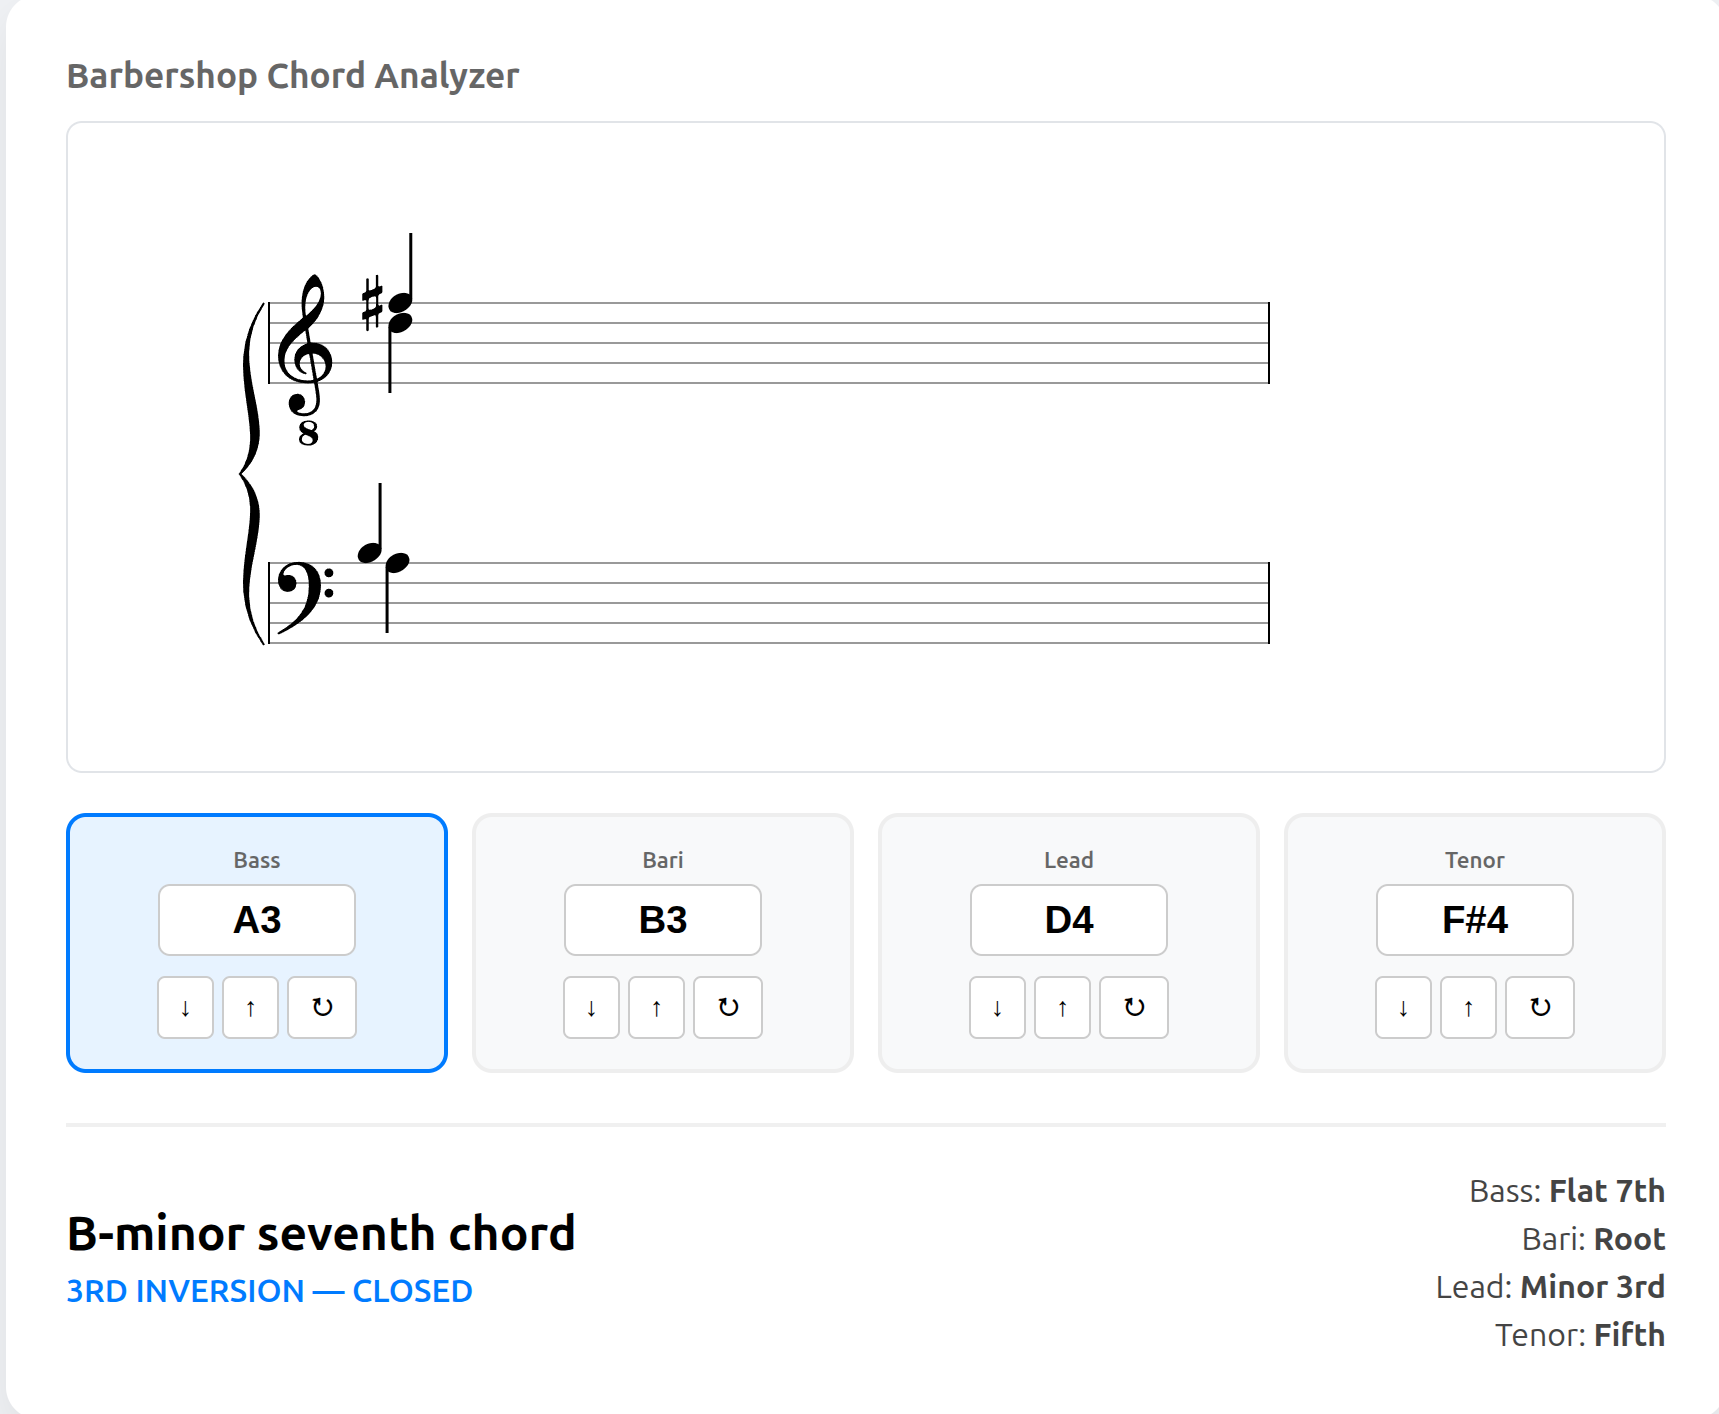
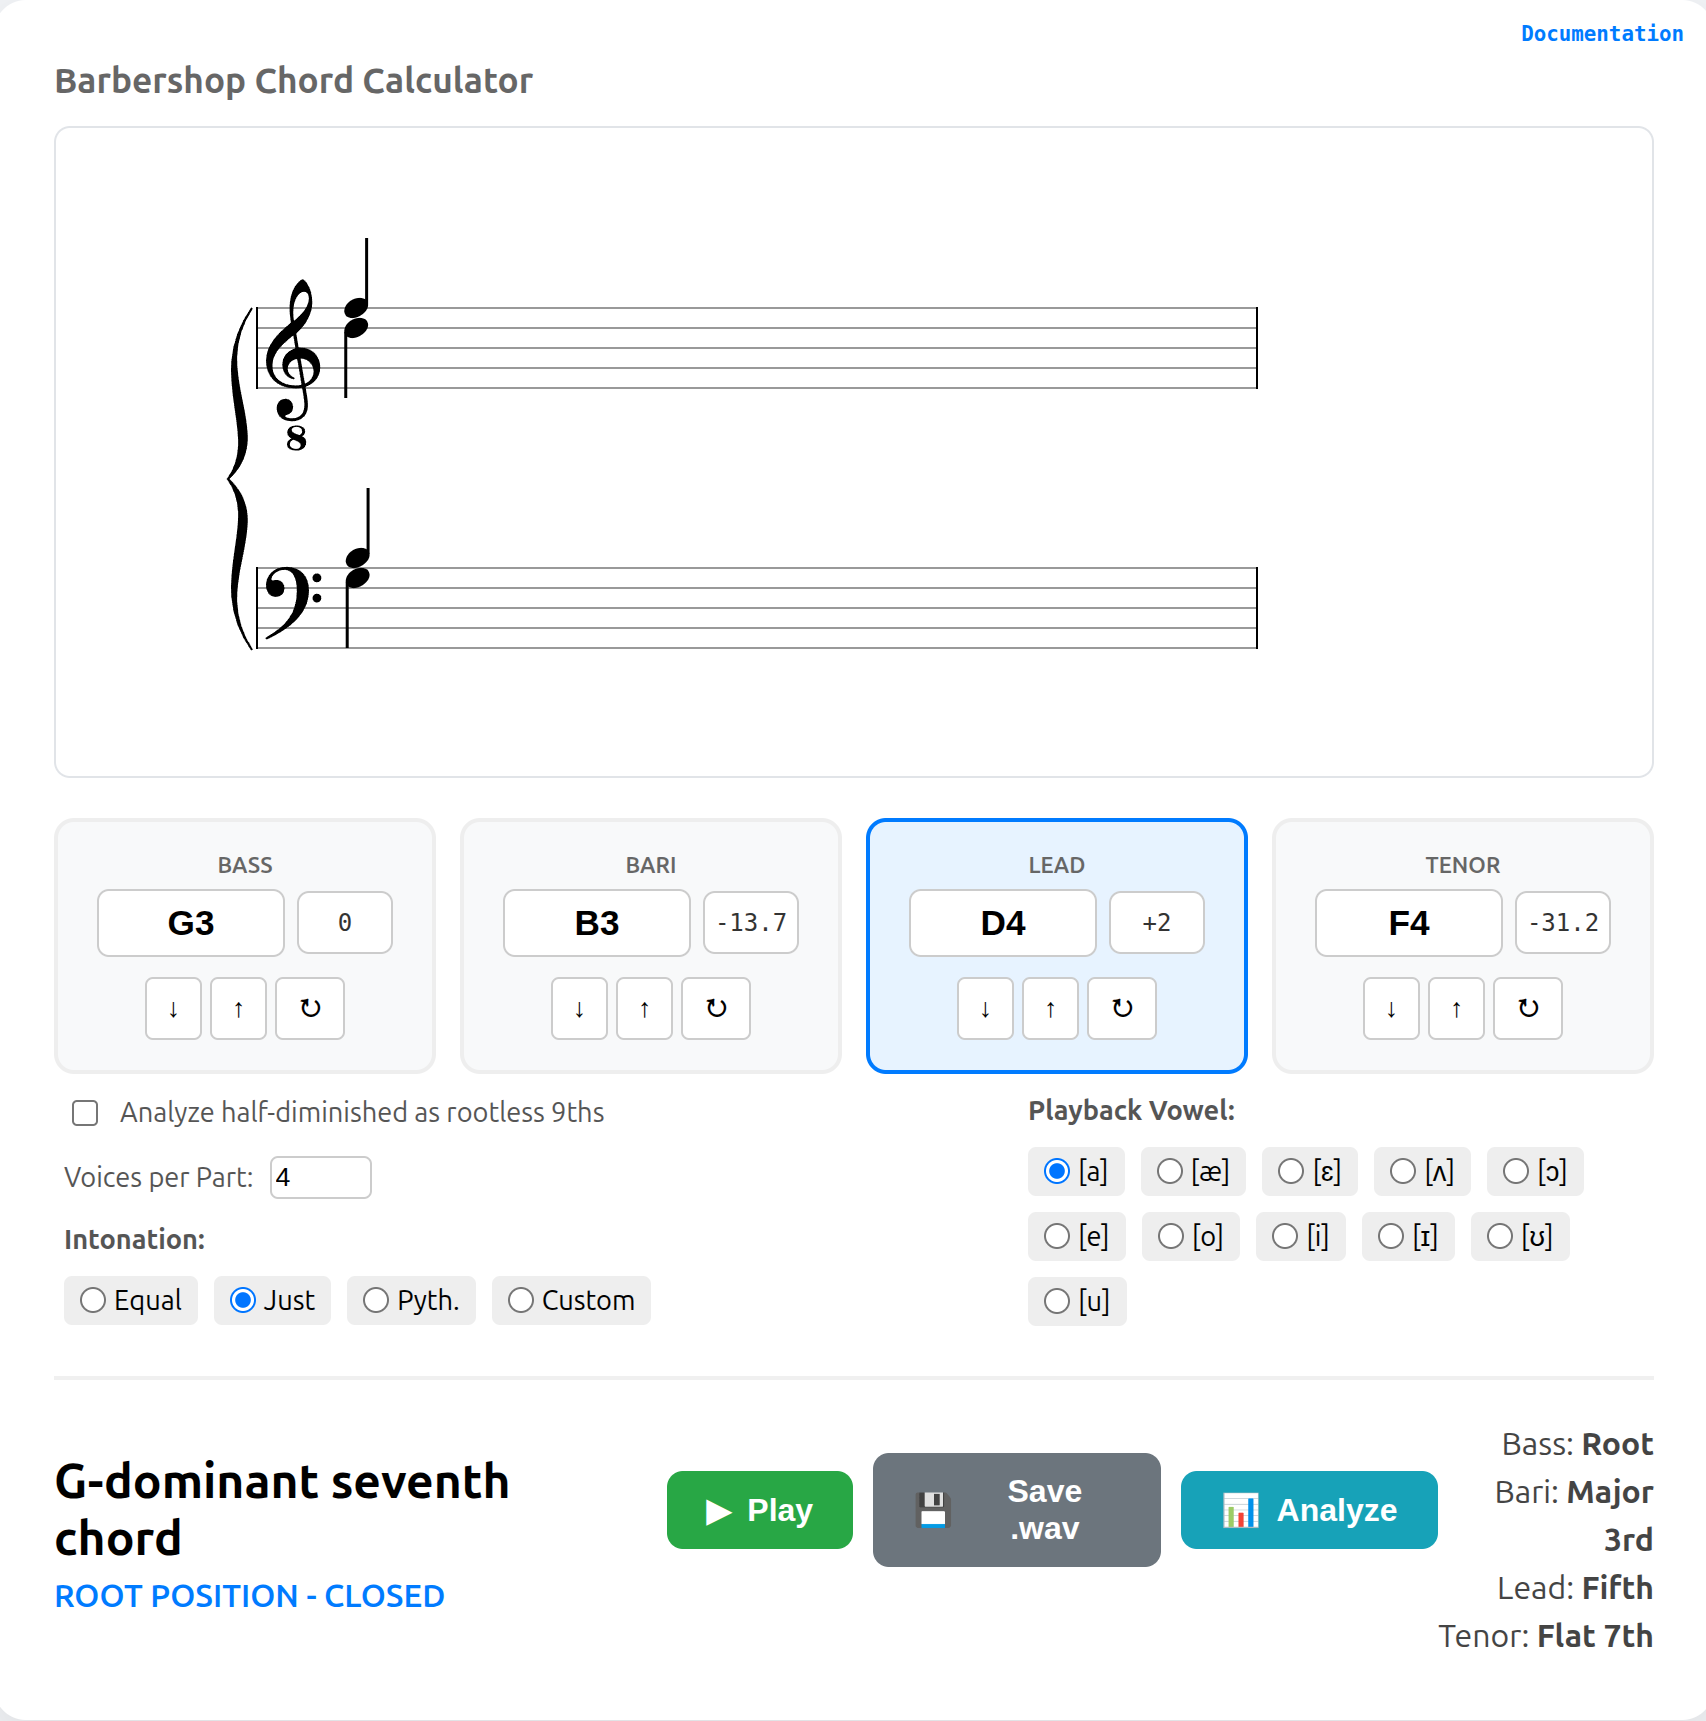
Add multiple voices per part (#17)
* Add vlq behavior

Also jitter start times

* remove to replace

* replace

* Update README for improved usage instructions

* more adjustments to README

diff --git a/static/js/audio.js b/static/js/audio.js
@@ -1,7 +1,7 @@
-/* audio.js Serial: #007 */
+/* audio.js Serial: #009 */
 import { getAbsSemitone } from './spelling.js';
 
-export const SERIAL = "#007";
+export const SERIAL = "#009";
 
 let audioCtx = null;
 const FORMANT_MAP = {
@@ -11,7 +11,7 @@ const FORMANT_MAP = {
     'ʊ': [440, 1020, 2240], 'u': [300, 870, 2240]
 };
 
-function createVoice(ctx, freq, vowel, startTime, duration) {
+function createVoice(ctx, freq, vowel, startTime, duration, targetGain = 0.05) {
     const attack = 0.15, release = 0.5;
     const formants = FORMANT_MAP[vowel] || FORMANT_MAP['a'];
     const osc = ctx.createOscillator();
@@ -20,14 +20,15 @@ function createVoice(ctx, freq, vowel, startTime, duration) {
 
     const vibrato = ctx.createOscillator();
     const vibratoGain = ctx.createGain();
-    vibrato.frequency.value = 4.8 + (Math.random() * 0.4);
+    // Unique vibrato rate for every singer in the quartet/chorus
+    vibrato.frequency.value = 4.6 + (Math.random() * 1.2); 
     vibratoGain.gain.value = freq * 0.006;
     vibrato.connect(vibratoGain); vibratoGain.connect(osc.frequency);
 
     const voiceGain = ctx.createGain();
     voiceGain.gain.setValueAtTime(0, startTime);
-    voiceGain.gain.linearRampToValueAtTime(0.05, startTime + attack);
-    voiceGain.gain.setValueAtTime(0.05, startTime + duration - release);
+    voiceGain.gain.linearRampToValueAtTime(targetGain, startTime + attack);
+    voiceGain.gain.setValueAtTime(targetGain, startTime + duration - release);
     voiceGain.gain.exponentialRampToValueAtTime(0.0001, startTime + duration);
 
     formants.forEach((f, idx) => {
@@ -40,33 +41,51 @@ function createVoice(ctx, freq, vowel, startTime, duration) {
     return { osc, vibrato, gain: voiceGain };
 }
 
-function setupAudioGraph(ctx, chordState, vowel, startTime, duration, tuningData, multiChannel = false) {
+function setupAudioGraph(ctx, chordState, vowel, startTime, duration, tuningData, numVoicesPerPart = 1, multiChannel = false) {
     let merger = null;
     if (multiChannel) {
         merger = ctx.createChannelMerger(4);
         merger.connect(ctx.destination);
     }
+    
+    // Scale gain so the total amplitude of the part is the arithmetic mean
+    const individualGain = 0.05 / Math.max(1, numVoicesPerPart);
+
     chordState.forEach((note, i) => {
-        const cents = (tuningData && tuningData[i] !== undefined) ? tuningData[i] : 0;
-        const freq = 440 * Math.pow(2, (getAbsSemitone(note) - 57 + (cents / 100)) / 12);
-        const voice = createVoice(ctx, freq, vowel, startTime, duration);
-        if (multiChannel) voice.gain.connect(merger, 0, i);
-        else voice.gain.connect(ctx.destination);
-        voice.osc.start(startTime); voice.vibrato.start(startTime);
-        voice.osc.stop(startTime + duration); voice.vibrato.stop(startTime + duration);
+        const baseCents = (tuningData && tuningData[i] !== undefined) ? tuningData[i] : 0;
+        
+        for (let v = 0; v < numVoicesPerPart; v++) {
+            // Independent start jitter for every voice to randomize phase
+            const phaseJitter = Math.random() * 0.08;
+            const voiceStart = startTime + phaseJitter;
+            
+            // Subtle micro-tuning variance (±2 cents) creates a natural chorus "wash"
+            const microtuning = (Math.random() - 0.5) * 4;
+            const freq = 440 * Math.pow(2, (getAbsSemitone(note) - 57 + ((baseCents + microtuning) / 100)) / 12);
+            
+            const voice = createVoice(ctx, freq, vowel, voiceStart, duration, individualGain);
+            
+            if (multiChannel) voice.gain.connect(merger, 0, i);
+            else voice.gain.connect(ctx.destination);
+            
+            voice.osc.start(voiceStart); 
+            voice.vibrato.start(voiceStart);
+            voice.osc.stop(voiceStart + duration); 
+            voice.vibrato.stop(voiceStart + duration);
+        }
     });
 }
 
-export function playChord(chordState, vowel = 'a', tuningData = null) {
+export function playChord(chordState, vowel = 'a', tuningData = null, numVoicesPerPart = 1) {
     if (!audioCtx) audioCtx = new (window.AudioContext || window.webkitAudioContext)();
     if (audioCtx.state === 'suspended') audioCtx.resume();
-    setupAudioGraph(audioCtx, chordState, vowel, audioCtx.currentTime, 5.0, tuningData);
+    setupAudioGraph(audioCtx, chordState, vowel, audioCtx.currentTime, 5.0, tuningData, numVoicesPerPart);
 }
 
-export async function saveChordAsWav(chordState, vowel = 'a', tuningData = null) {
+export async function saveChordAsWav(chordState, vowel = 'a', tuningData = null, numVoicesPerPart = 1) {
     const duration = 5.0, sr = 44100;
     const offlineCtx = new OfflineAudioContext(4, sr * duration, sr);
-    setupAudioGraph(offlineCtx, chordState, vowel, 0, duration, tuningData, true);
+    setupAudioGraph(offlineCtx, chordState, vowel, 0, duration, tuningData, numVoicesPerPart, true);
     const buffer = await offlineCtx.startRendering();
     const data = new Float32Array(buffer.length * 4);
     for (let i = 0; i < buffer.length; i++) {
@@ -75,12 +94,12 @@ export async function saveChordAsWav(chordState, vowel = 'a', tuningData = null)
     const blob = encodeWAV(data, 4, sr);
     const link = document.createElement('a');
     link.href = URL.createObjectURL(blob);
-    link.download = `chord_4channel_${vowel}.wav`;
+    link.download = `chord_vlq_${numVoicesPerPart}_${vowel}.wav`;
     link.click();
 }
 
 /**
- * Standard Radix-2 FFT Implementation (O(N log N))
+ * Standard Radix-2 FFT Implementation
  */
 export function fft(real, imag) {
     const n = real.length;
@@ -115,10 +134,10 @@ export function getMagnitudes(signal, sr) {
     return { freqs, mag };
 }
 
-export async function analyzeAndShow(chordState, vowel, tuningData) {
+export async function analyzeAndShow(chordState, vowel, tuningData, numVoicesPerPart = 1) {
     const duration = 5.0, sr = 44100, N = 16384; 
     const offlineCtx = new OfflineAudioContext(4, sr * duration, sr);
-    setupAudioGraph(offlineCtx, chordState, vowel, 0, duration, tuningData, true);
+    setupAudioGraph(offlineCtx, chordState, vowel, 0, duration, tuningData, numVoicesPerPart, true);
     const buffer = await offlineCtx.startRendering();
     
     const analysis = { freqs: [], parts: [] };

diff --git a/templates/index.html b/templates/index.html
@@ -51,6 +51,7 @@
     <div class="settings-grid">
         <div style="display: flex; flex-direction: column; gap: 12px;">
             <label class="checkbox-label"><input type="checkbox" id="rootlessToggle"> Analyze half-diminished as rootless 9ths</label>
+            <label class="checkbox-label">Voices per Part: <input type="number" id="vpsCount" value="4" min="1" max="20" style="width: 45px; padding: 2px; border-radius: 4px; border: 1px solid #ccc;"></label>
             <div class="intonation-selector">
                 <span class="section-label">Intonation:</span>
                 <label class="selector-opt"><input type="radio" name="intonation" value="equal"> Equal</label>
@@ -97,12 +98,12 @@ import { drawChord, SERIAL as S_NOT } from '/static/js/notation.js';
 import { playChord, saveChordAsWav, analyzeAndShow, SERIAL as S_AUD } from '/static/js/audio.js';
 
 const SHOW_SERIALS = false;
-const S_IDX = "#047";
+const S_IDX = "#049";
 
 const manifestEl = document.getElementById('manifest');
 const docsLink = "<a href='/help' target='_blank'>Documentation</a>";
 if (SHOW_SERIALS) {
-    manifestEl.innerHTML = "index: " + S_IDX + " | " + docsLink + "<br>spel: " + S_SPEL + "<br>ui: #023<br>not: " + S_NOT + "<br>aud: #007<br>test: #038";
+    manifestEl.innerHTML = "index: " + S_IDX + " | " + docsLink + "<br>spel: " + S_SPEL + "<br>ui: #023<br>not: " + S_NOT + "<br>aud: " + S_AUD + "<br>test: #038";
 } else {
     manifestEl.innerHTML = docsLink;
 }
@@ -211,13 +212,13 @@ window.addEventListener('tuningUpdate', (e) => {
     }
 });
 
-document.getElementById('playBtn').onclick = () => playChord(chordState, document.querySelector('input[name="vowel"]:checked').value, tuningState);
-document.getElementById('saveBtn').onclick = () => saveChordAsWav(chordState, document.querySelector('input[name="vowel"]:checked').value, tuningState);
+document.getElementById('playBtn').onclick = () => playChord(chordState, document.querySelector('input[name="vowel"]:checked').value, tuningState, parseInt(document.getElementById('vpsCount').value));
+document.getElementById('saveBtn').onclick = () => saveChordAsWav(chordState, document.querySelector('input[name="vowel"]:checked').value, tuningState, parseInt(document.getElementById('vpsCount').value));
 document.getElementById('analyzeBtn').onclick = async () => {
     const btn = document.getElementById('analyzeBtn');
     btn.disabled = true;
     setTimeout(async () => {
-        try { await analyzeAndShow(chordState, document.querySelector('input[name="vowel"]:checked').value, tuningState); }
+        try { await analyzeAndShow(chordState, document.querySelector('input[name="vowel"]:checked').value, tuningState, parseInt(document.getElementById('vpsCount').value)); }
         finally { btn.disabled = false; }
     }, 50);
 };

diff --git a/README.md b/README.md
@@ -1,12 +1,11 @@
 # Barbershop Chord Calculator
-A specialized music theory tool for barbershop quartet singers and arrangers. Enter four notes to identify the chord and the functional role of each voice part.
+A specialized music theory tool for barbershop quartet singers and arrangers. Enter four notes to identify the chord and the functional role of each voice part.  Optionally play the chord, save it to a file, or analyze its spectrum.
 
 The tool is currently tuned for **TTBB barbershop harmony**, following standard quartet engraving conventions:
 * **Tenor & Lead:** Treble Clef (8vb) — Stems Up (Tenor), Stems Down (Lead).
 * **Bari & Bass:** Bass Clef — Stems Up (Bari), Stems Down (Bass).
 
-If you want to use it for SSAA or SATB, you could just pretend it's TTBB; the answers are the same except that open versus closed voicing might be different if you're using it for SATB.  If there is enough demand I will consider adding options for SATB or SSAA.  Or you are welcome to submit a pull request.
-
+If you want to use it for SSAA or SATB, you could just pretend it's TTBB; the chord and role identification are the same except that open versus closed voicing might be different if you're using it for SATB.  (Playback, of course, will be different.)  If there is enough demand I will consider adding options for SATB or SSAA.  Or you are welcome to submit a pull request.
 
 ![screenshot](images/image.png)
 
@@ -14,18 +13,27 @@ If you want to use it for SSAA or SATB, you could just pretend it's TTBB; the an
 This application and its source code are released under the [MIT License](https://github.com/trovatore/BarbershopChordCalculator/blob/main/LICENSE).  There is no warranty of any kind, express or implied.
 
 ## Using the App
-  * Select a Part: Click on a voice box (Bass, Bari, Lead, or Tenor) or use Tab (and Shift-Tab) to cycle through them.  The Right Arrow and Left Arrow will also cycle through the different voices.
-
+  * Select a Part: Click on a voice box (Bass, Bari, Lead, or Tenor) or use Right Arrow and Left Arrow to cycle through them.  The Tab and Shift-Tab keys will step through controls.
   * Typing Notes: When a part is selected, simply type the letter (A-G) to change the note, possibly followed by an accidental (#, b, x, or bb), and then an octave number.
+  * Adjusting Custom Intonation: When a part is selected, typing a numeric value will adjust the pitch of the voice by that number of cents, and set the intonation type to "Custom".
+  * Adjusting Voices per Part:  By default the tool will simulate a "very large quartet" (VLQ) with 4 voices per part.  This smooths out certain artifacts in the sound that make the chord sound "too buzzy".  You can adjust this value in the "Voices per Part" box.
+  * Selecting Intonation: The radio buttons for "Intonation:" allow you to choose between equal temperament, just intonation, Pythagorean tuning, or a custom tuning where you specify the difference from equal temperament for each voice.
+  * Selecting a Vowel: The radio buttons under "Playback Vowel:" allow you to choose the vowel by its IPA symbol.  Note that these are not necessarily perfect.  Feel free to let me know if you think a vowel sounds egregiously different from what you expected.
+
+## Chord and Role Identification
+  * The chord name and the roles of each voice in the chord will update whenever a note is changed or respelled.  (Note however that if you are using the tool on the web with the backend running remotely, you may have to wait for the backend to spin up, and some displays might be incorrect during this time.)
+
+## Chord Generation
+  * Playback:  Press the "Play" arrow to hear the chord immediately.
+  * Saving:  Press the "Save .wav" button to save the chord as a 4-channel `.wav` file.
+  * Analysis:  Press the "Analyze" button to generate a spectrogram of the chord, broken down by voice part.
+> [NOTE:] There is an element of randomness in chord generation, specifically regarding the vibrato and start-time jitter of each voice.  Therefore the chord will not be identical on each playback, save, or analysis, and the chord you save may not be identical to the one you play back or analyze.  This randomness can be reduced, but not eliminated, by increasing the number of voices per part.
+
 
 ### Note Notation
   * Accidentals: Use b for flat, # for sharp, bb for double-flat, and x for double-sharp.
   * Octaves: Follow the letter with an octave number (e.g., G3, Bb3, Cx4).
   * Enharmonics: Click the Circular Arrow (↻) or press Enter to cycle through enharmonic spellings (e.g., changing a G# to an Ab).
-
-### Controls
-  * Arrow Keys (Up/Down): Move the selected note up or down by a semitone.
-  * On-Screen Buttons: Use the arrows to adjust pitch or the ↻ button to re-spell the note.
 
 ## Installation
 (This applies if you want to use the application from the source code.  If you are running the application on a hosted web platform you can ignore this section.)